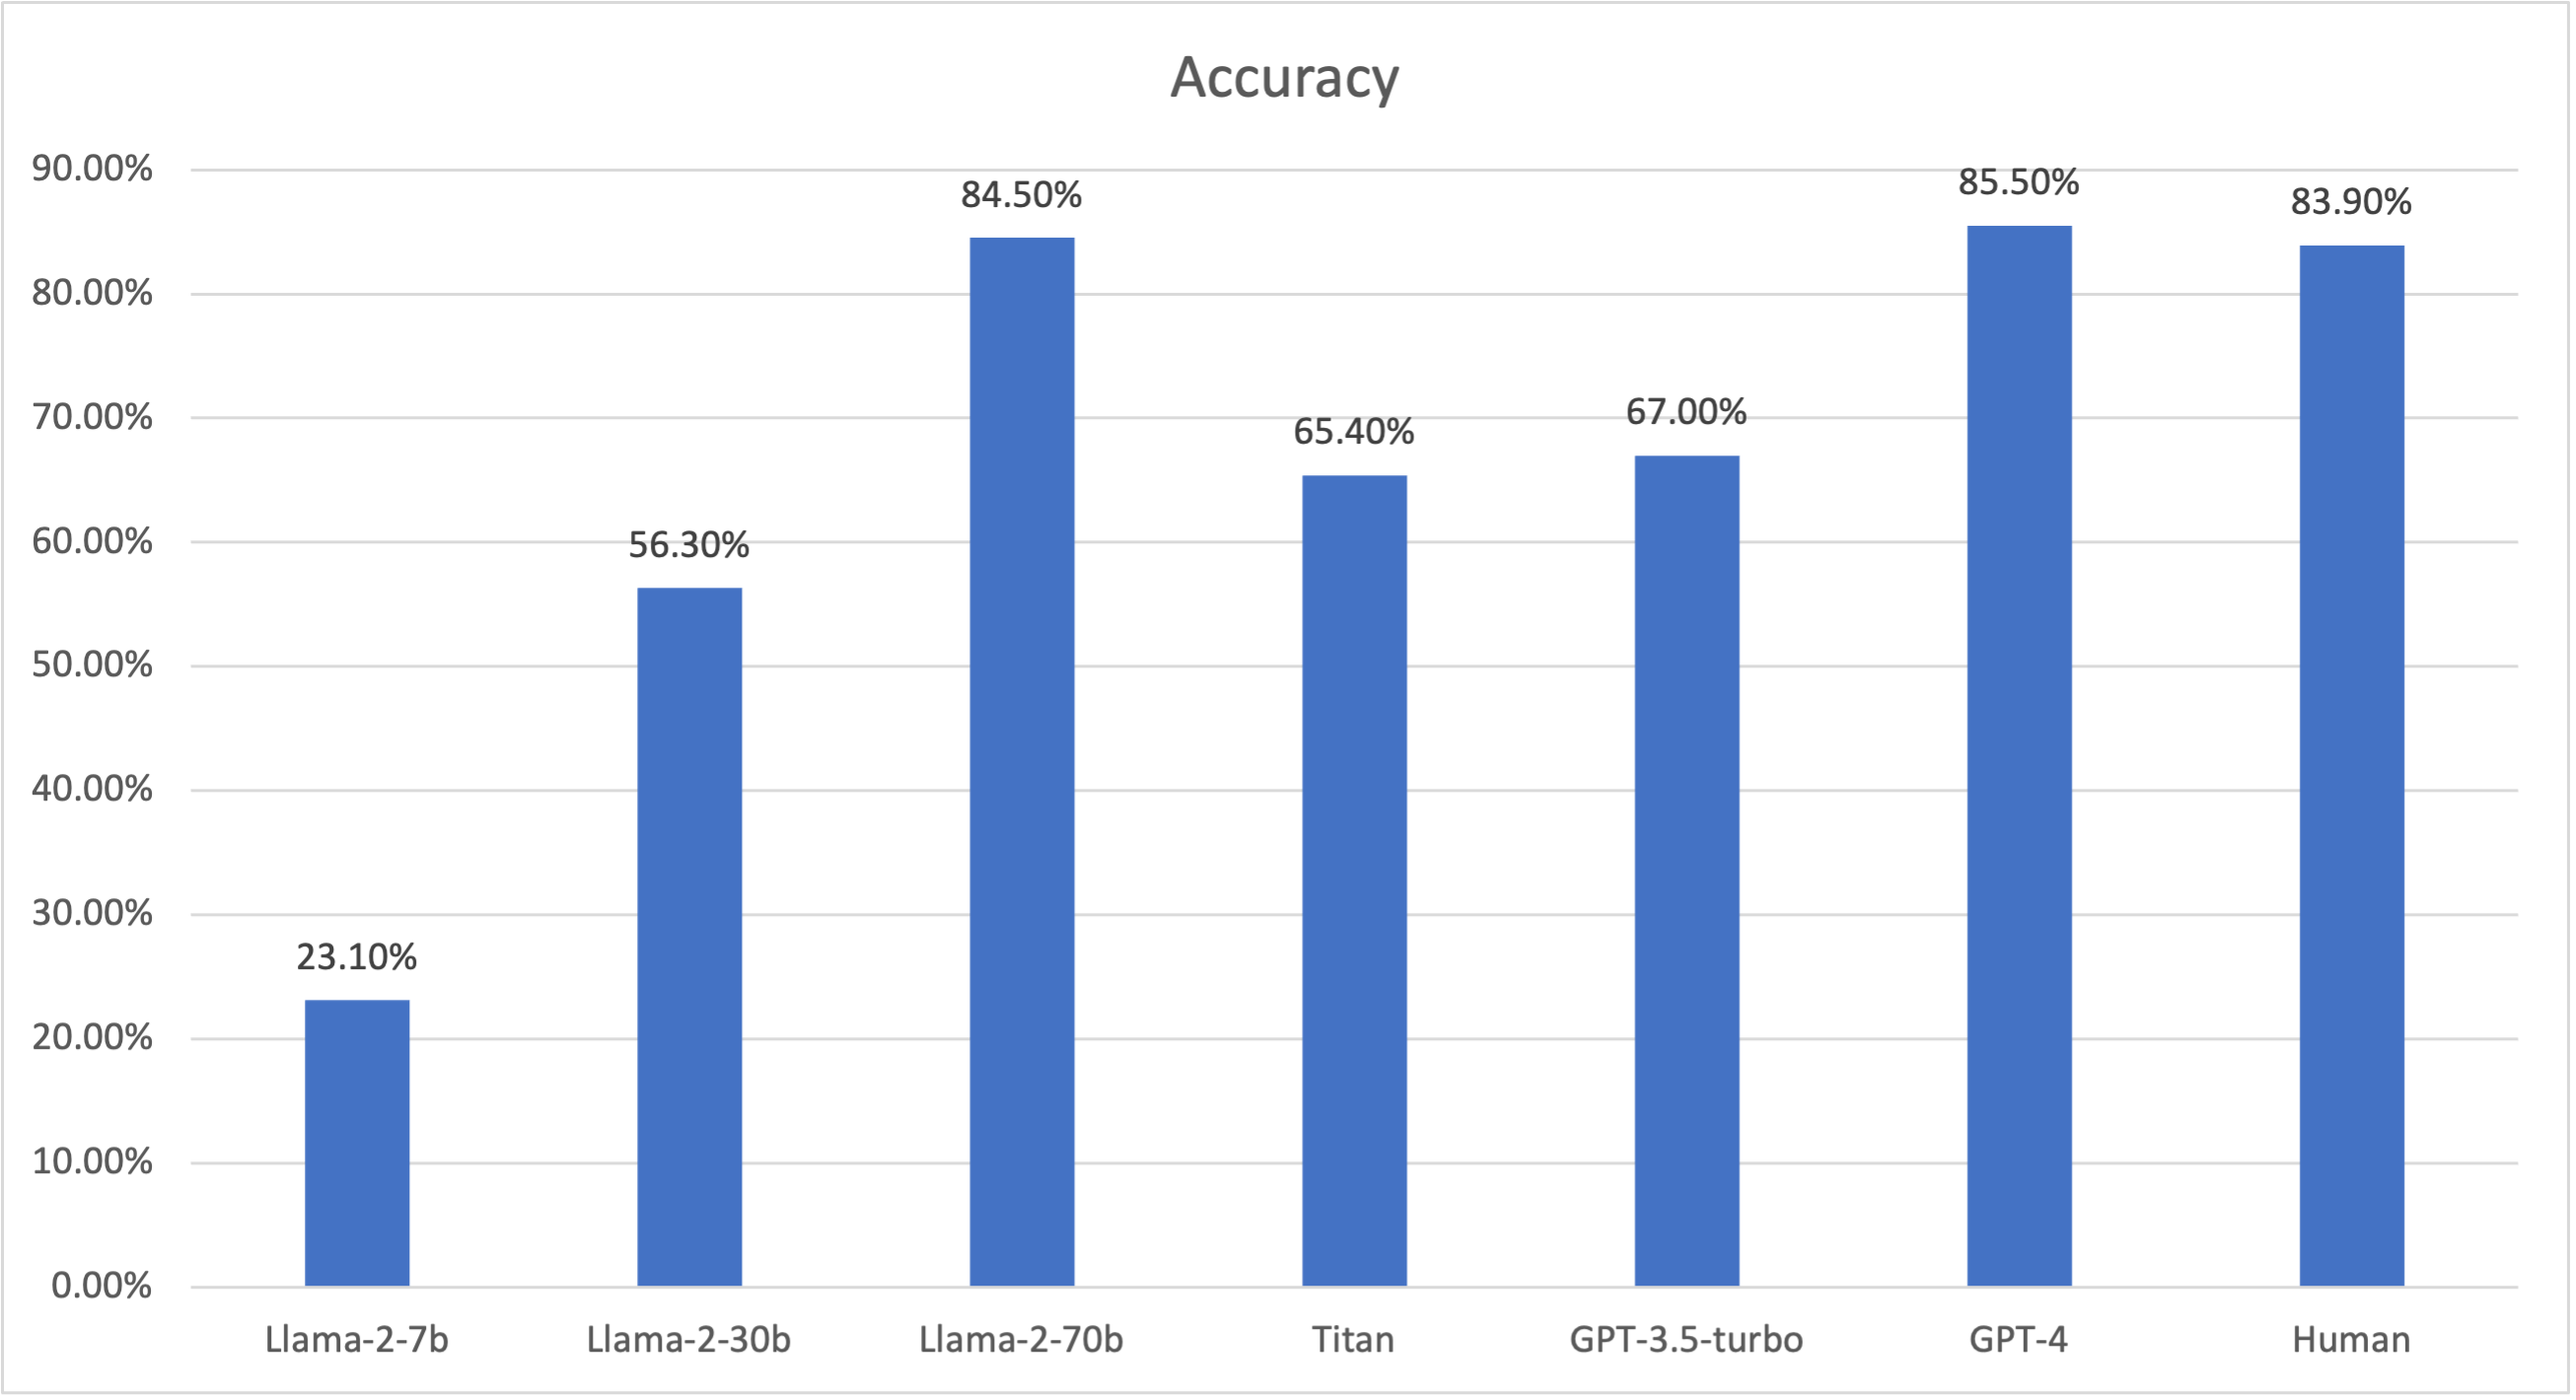
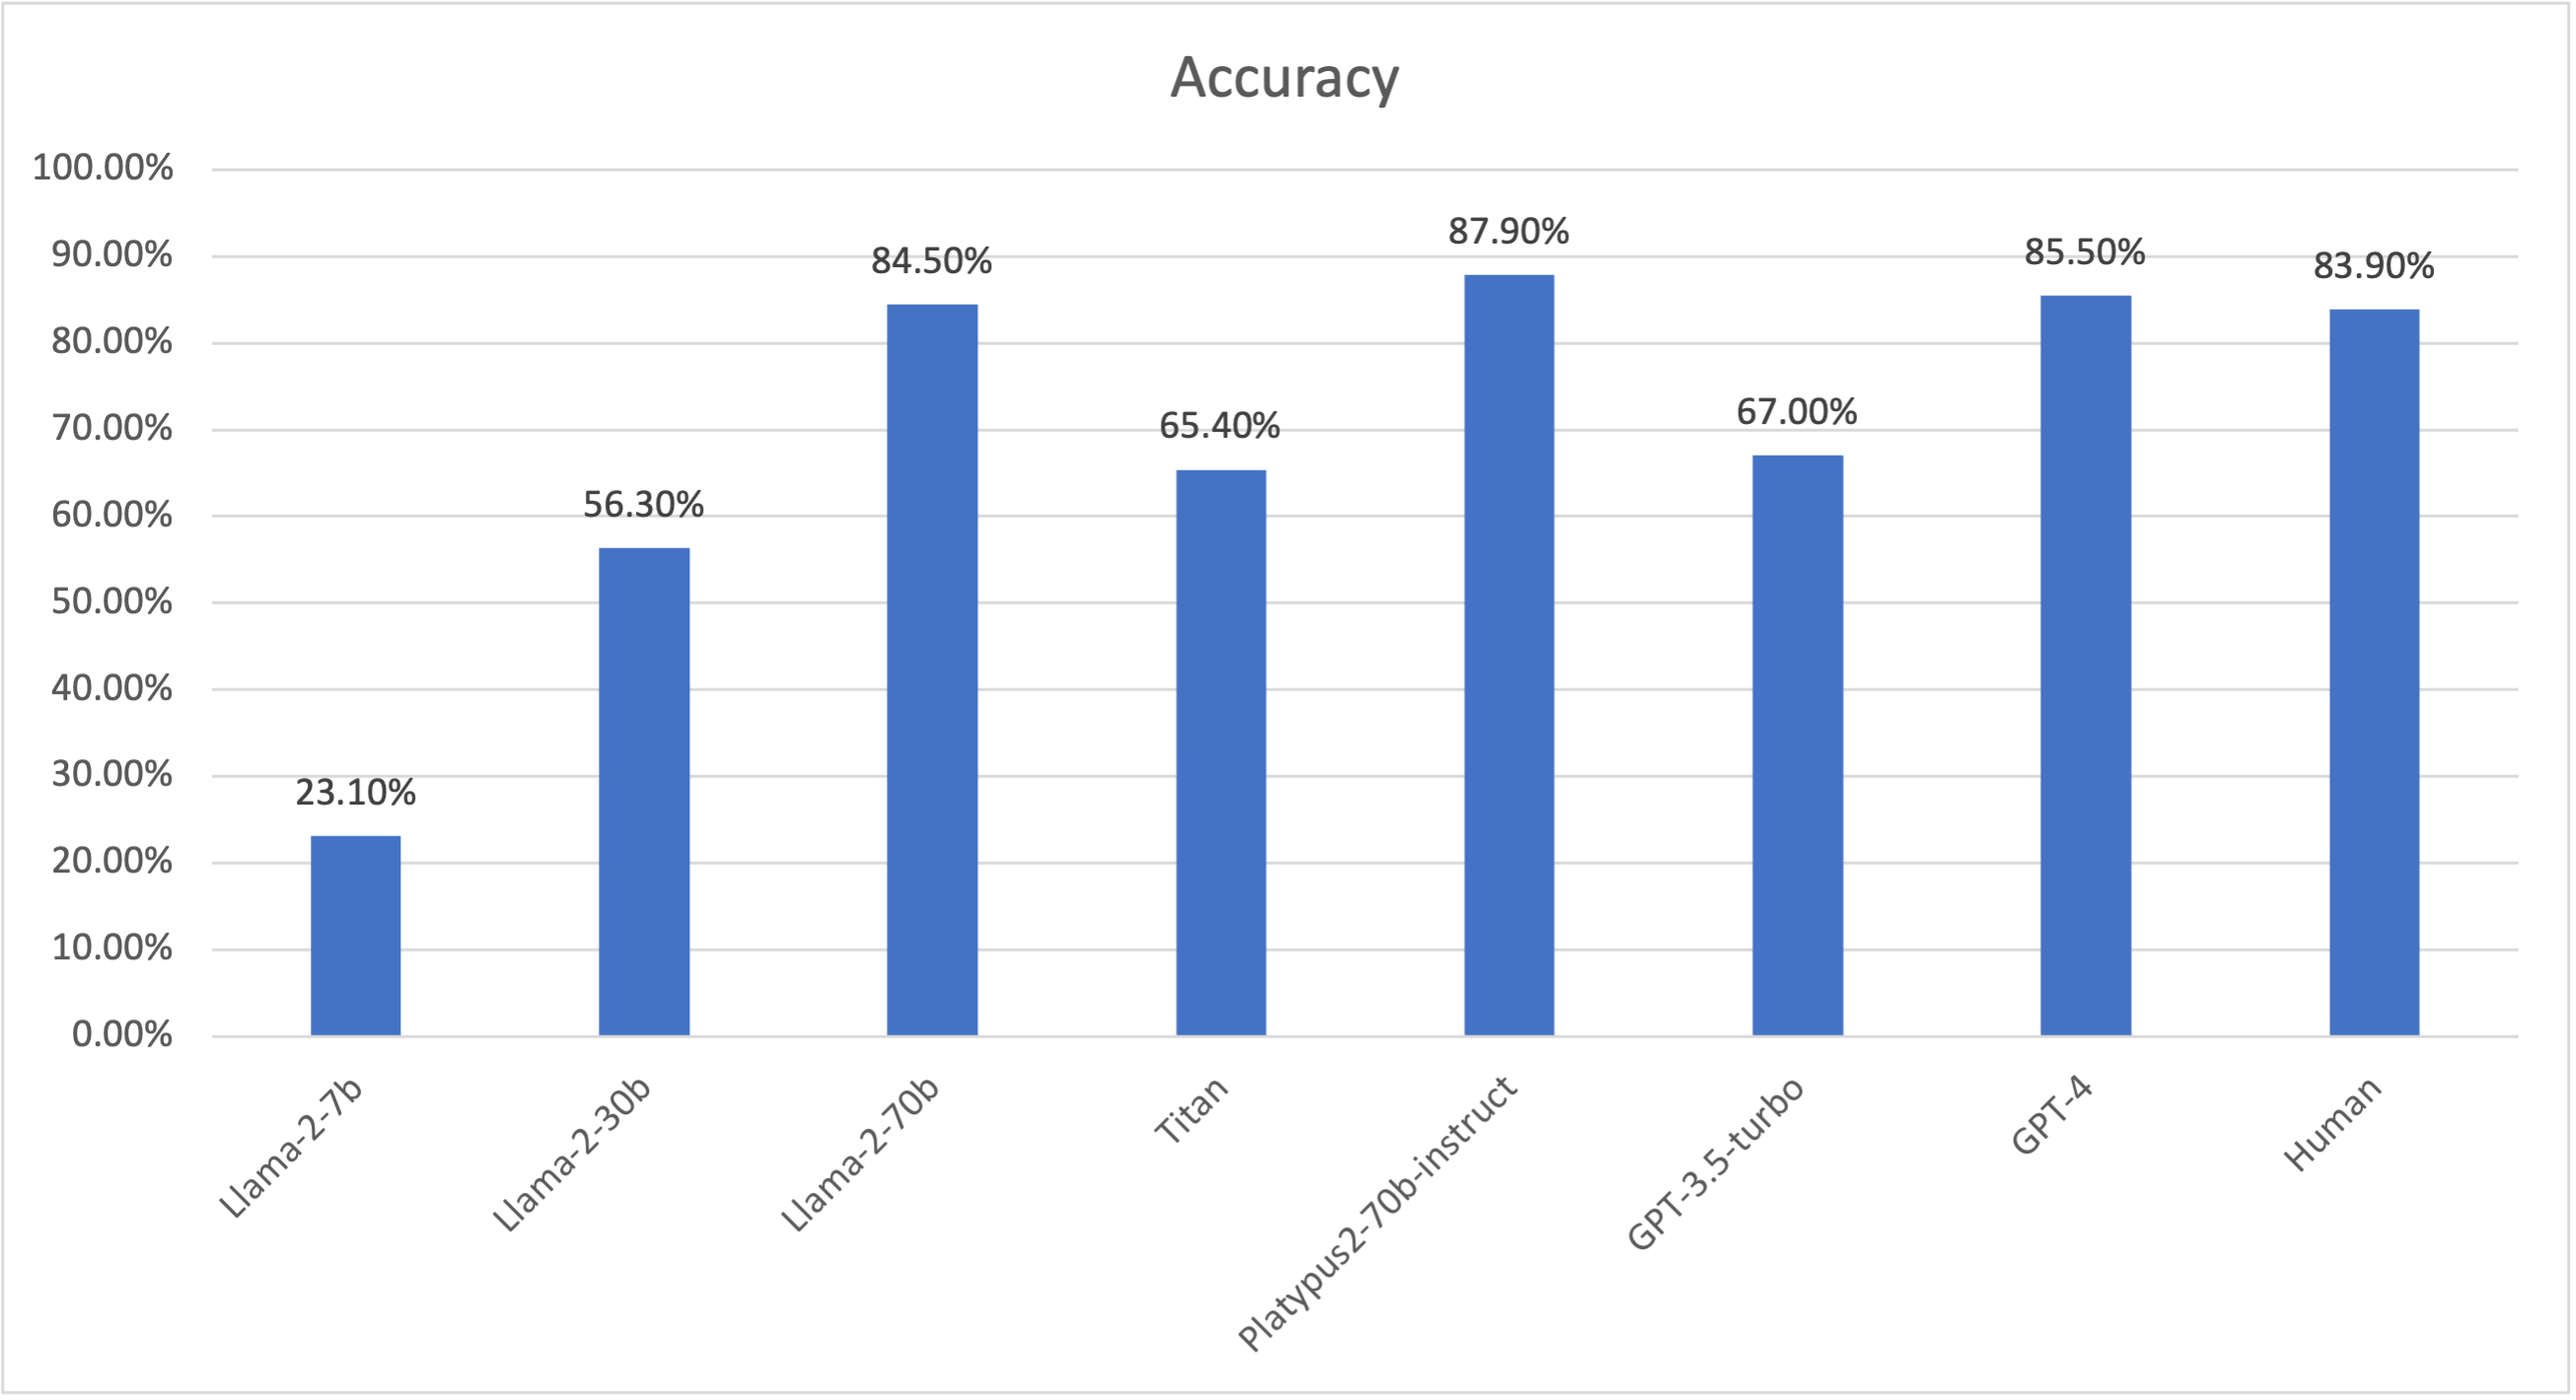
nit

diff --git a/factual_accuracy/README.md b/factual_accuracy/README.md
@@ -57,6 +57,7 @@ Answer (A or B):
 | Llama-2-30b     | 56.30%   | 4.00%      | 4.00%     | 32.40%    | 3.20%    | 29.2% towards A  | [notebook](Llama-2_analysis_only_updated.ipynb)      |
 | Llama-2-70b     | 84.50%   | 4.00%      | 0.00%     | 3.50%     | 8.00%    | 4.6% towards B   | [notebook](Llama-2_analysis_only_updated.ipynb)      |
 | Titan           | 65.40%   | 2.40%      | 1.90%     | 2.10%     | 28.20%   | 26.0% towards B  | [notebook](Titan_analysis_only_updated.ipynb)        |
+| Platypus-70b    | 87.90%   | 2.90%      | 0.00%     | 4.80%     | 4.30%    | 0.5% towards A   | [notebook](Platypus2_70B_instruct.ipynb)             |   
 | GPT-3.5-turbo   | 67.00%   |            |           |           |          |                  | https://arxiv.org/abs/2303.15621                     |
 | GPT-4           | 85.50%   |            |           |           |          |                  | https://arxiv.org/abs/2303.15621                     |
 | Human           | 83.90%   |            |           |           |          |                  | https://aclanthology.org/2020.findings-emnlp.322.pdf |
